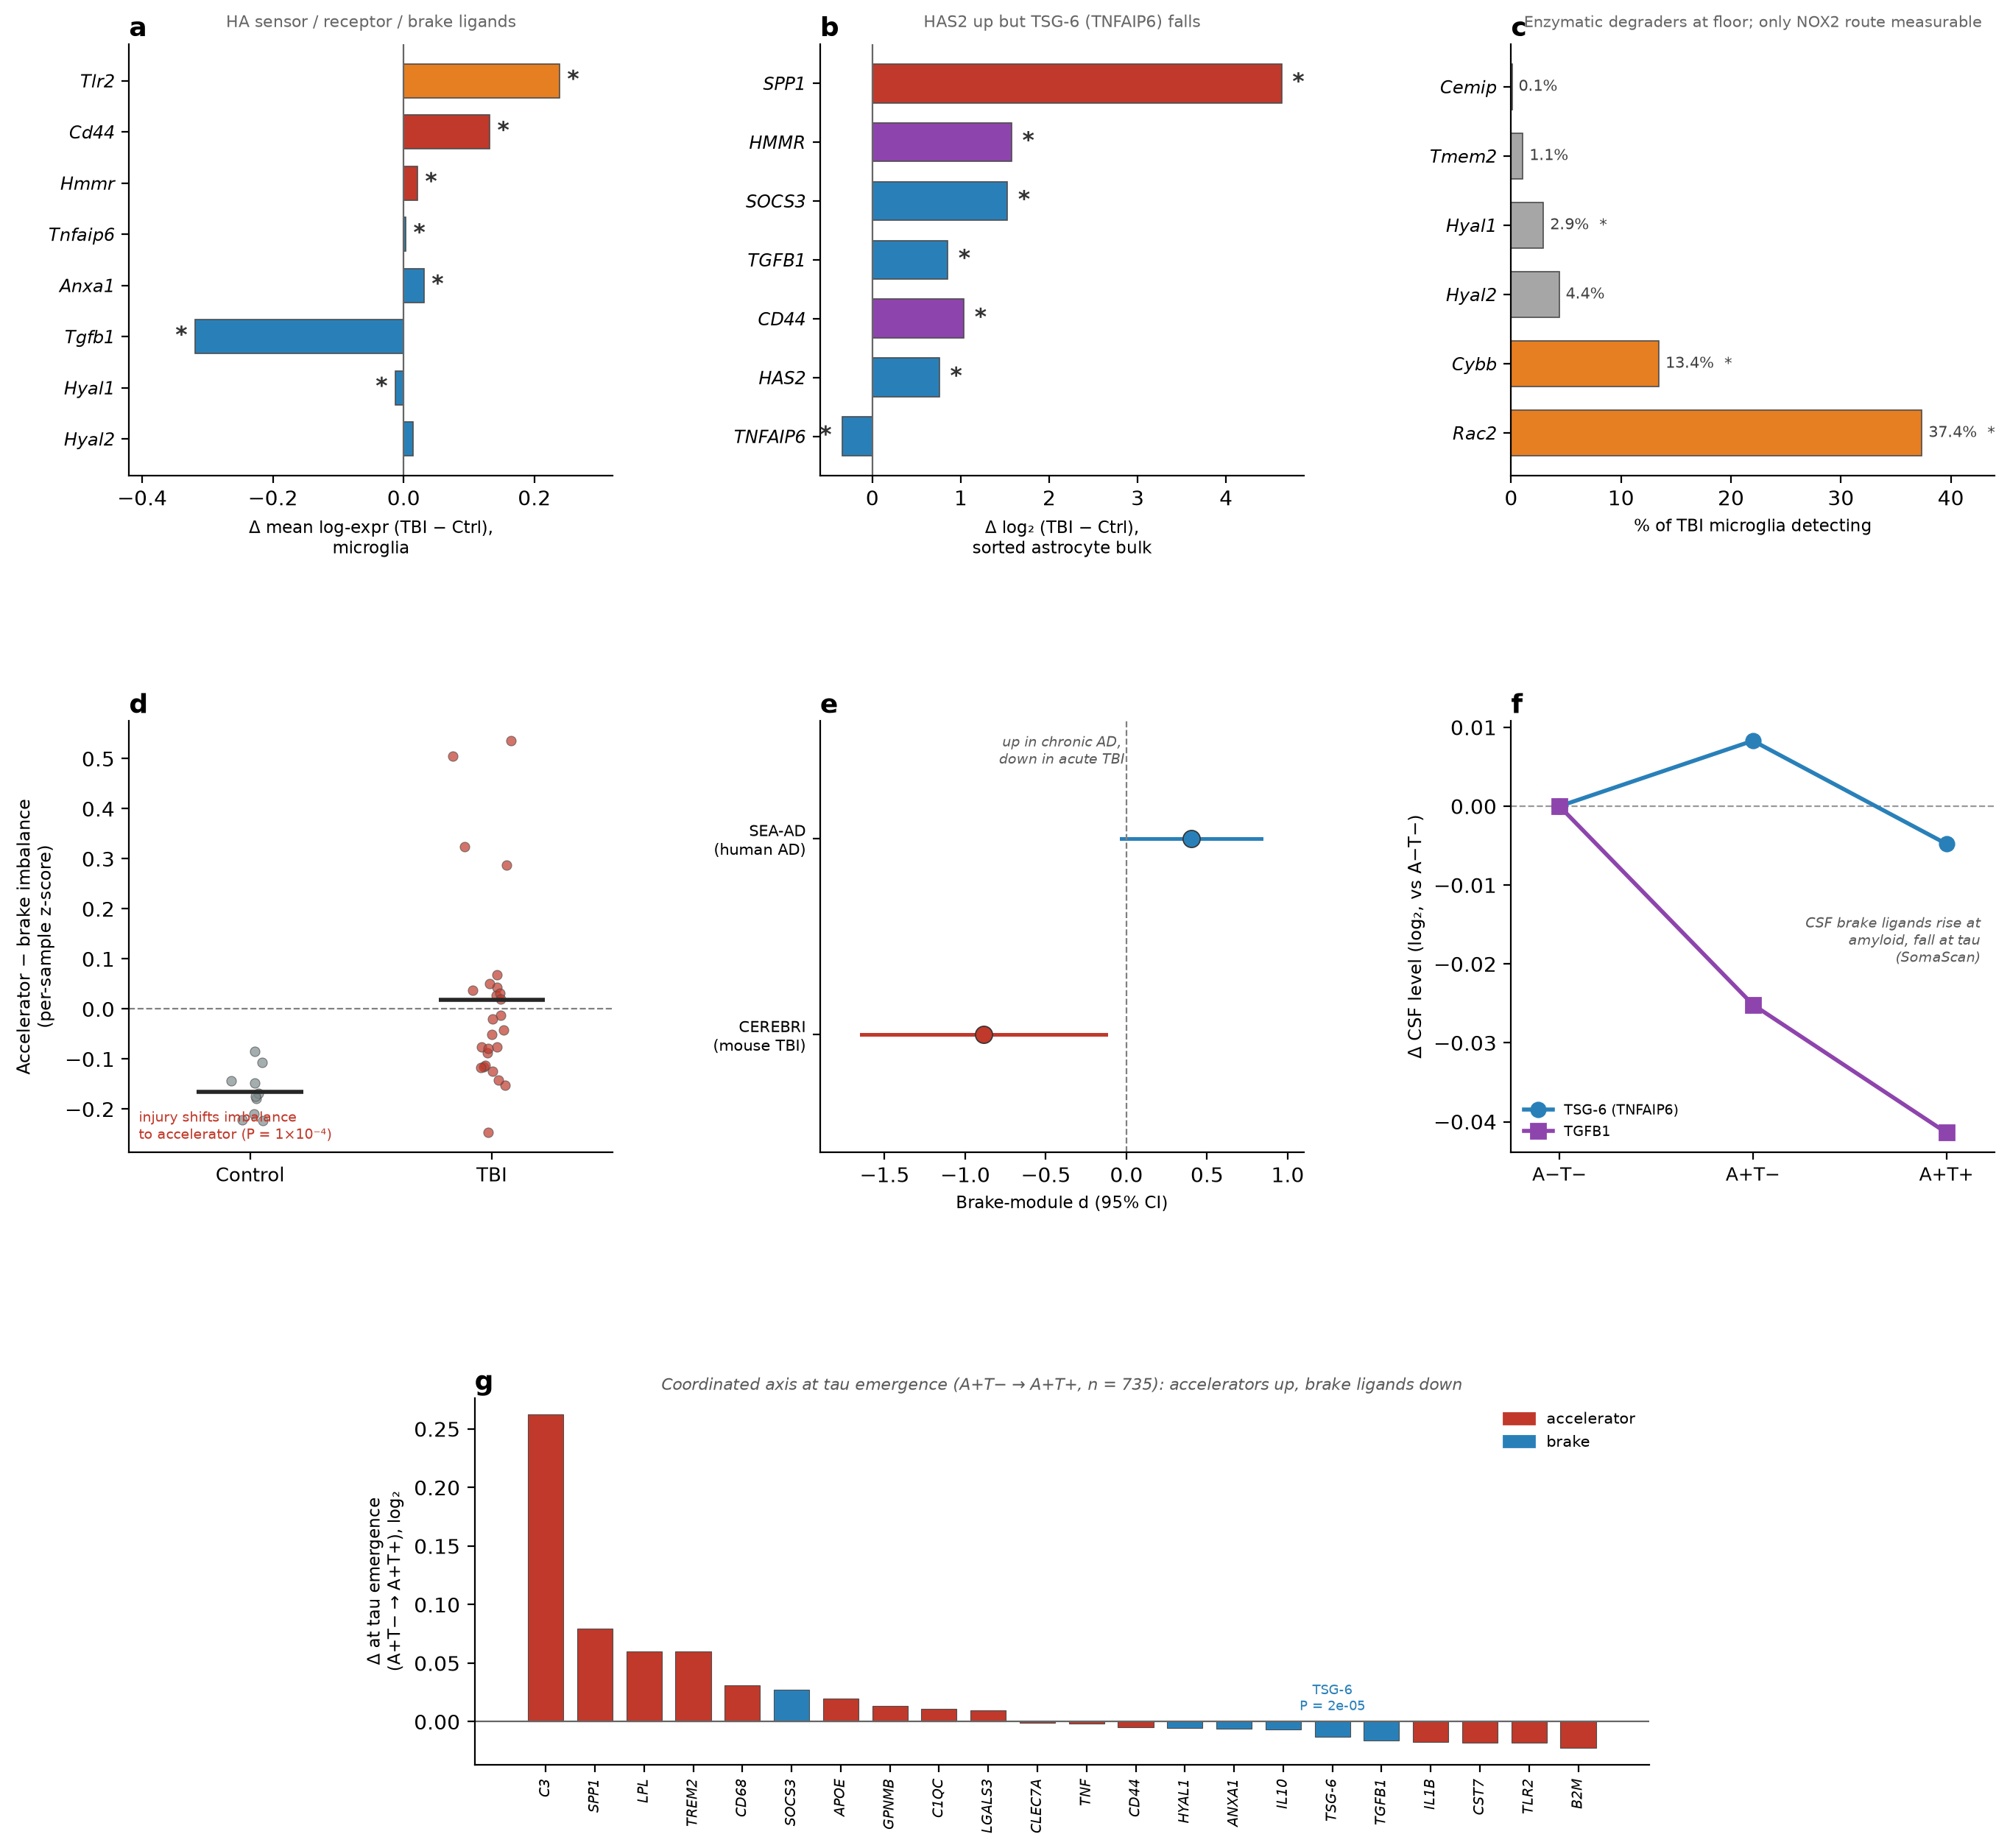
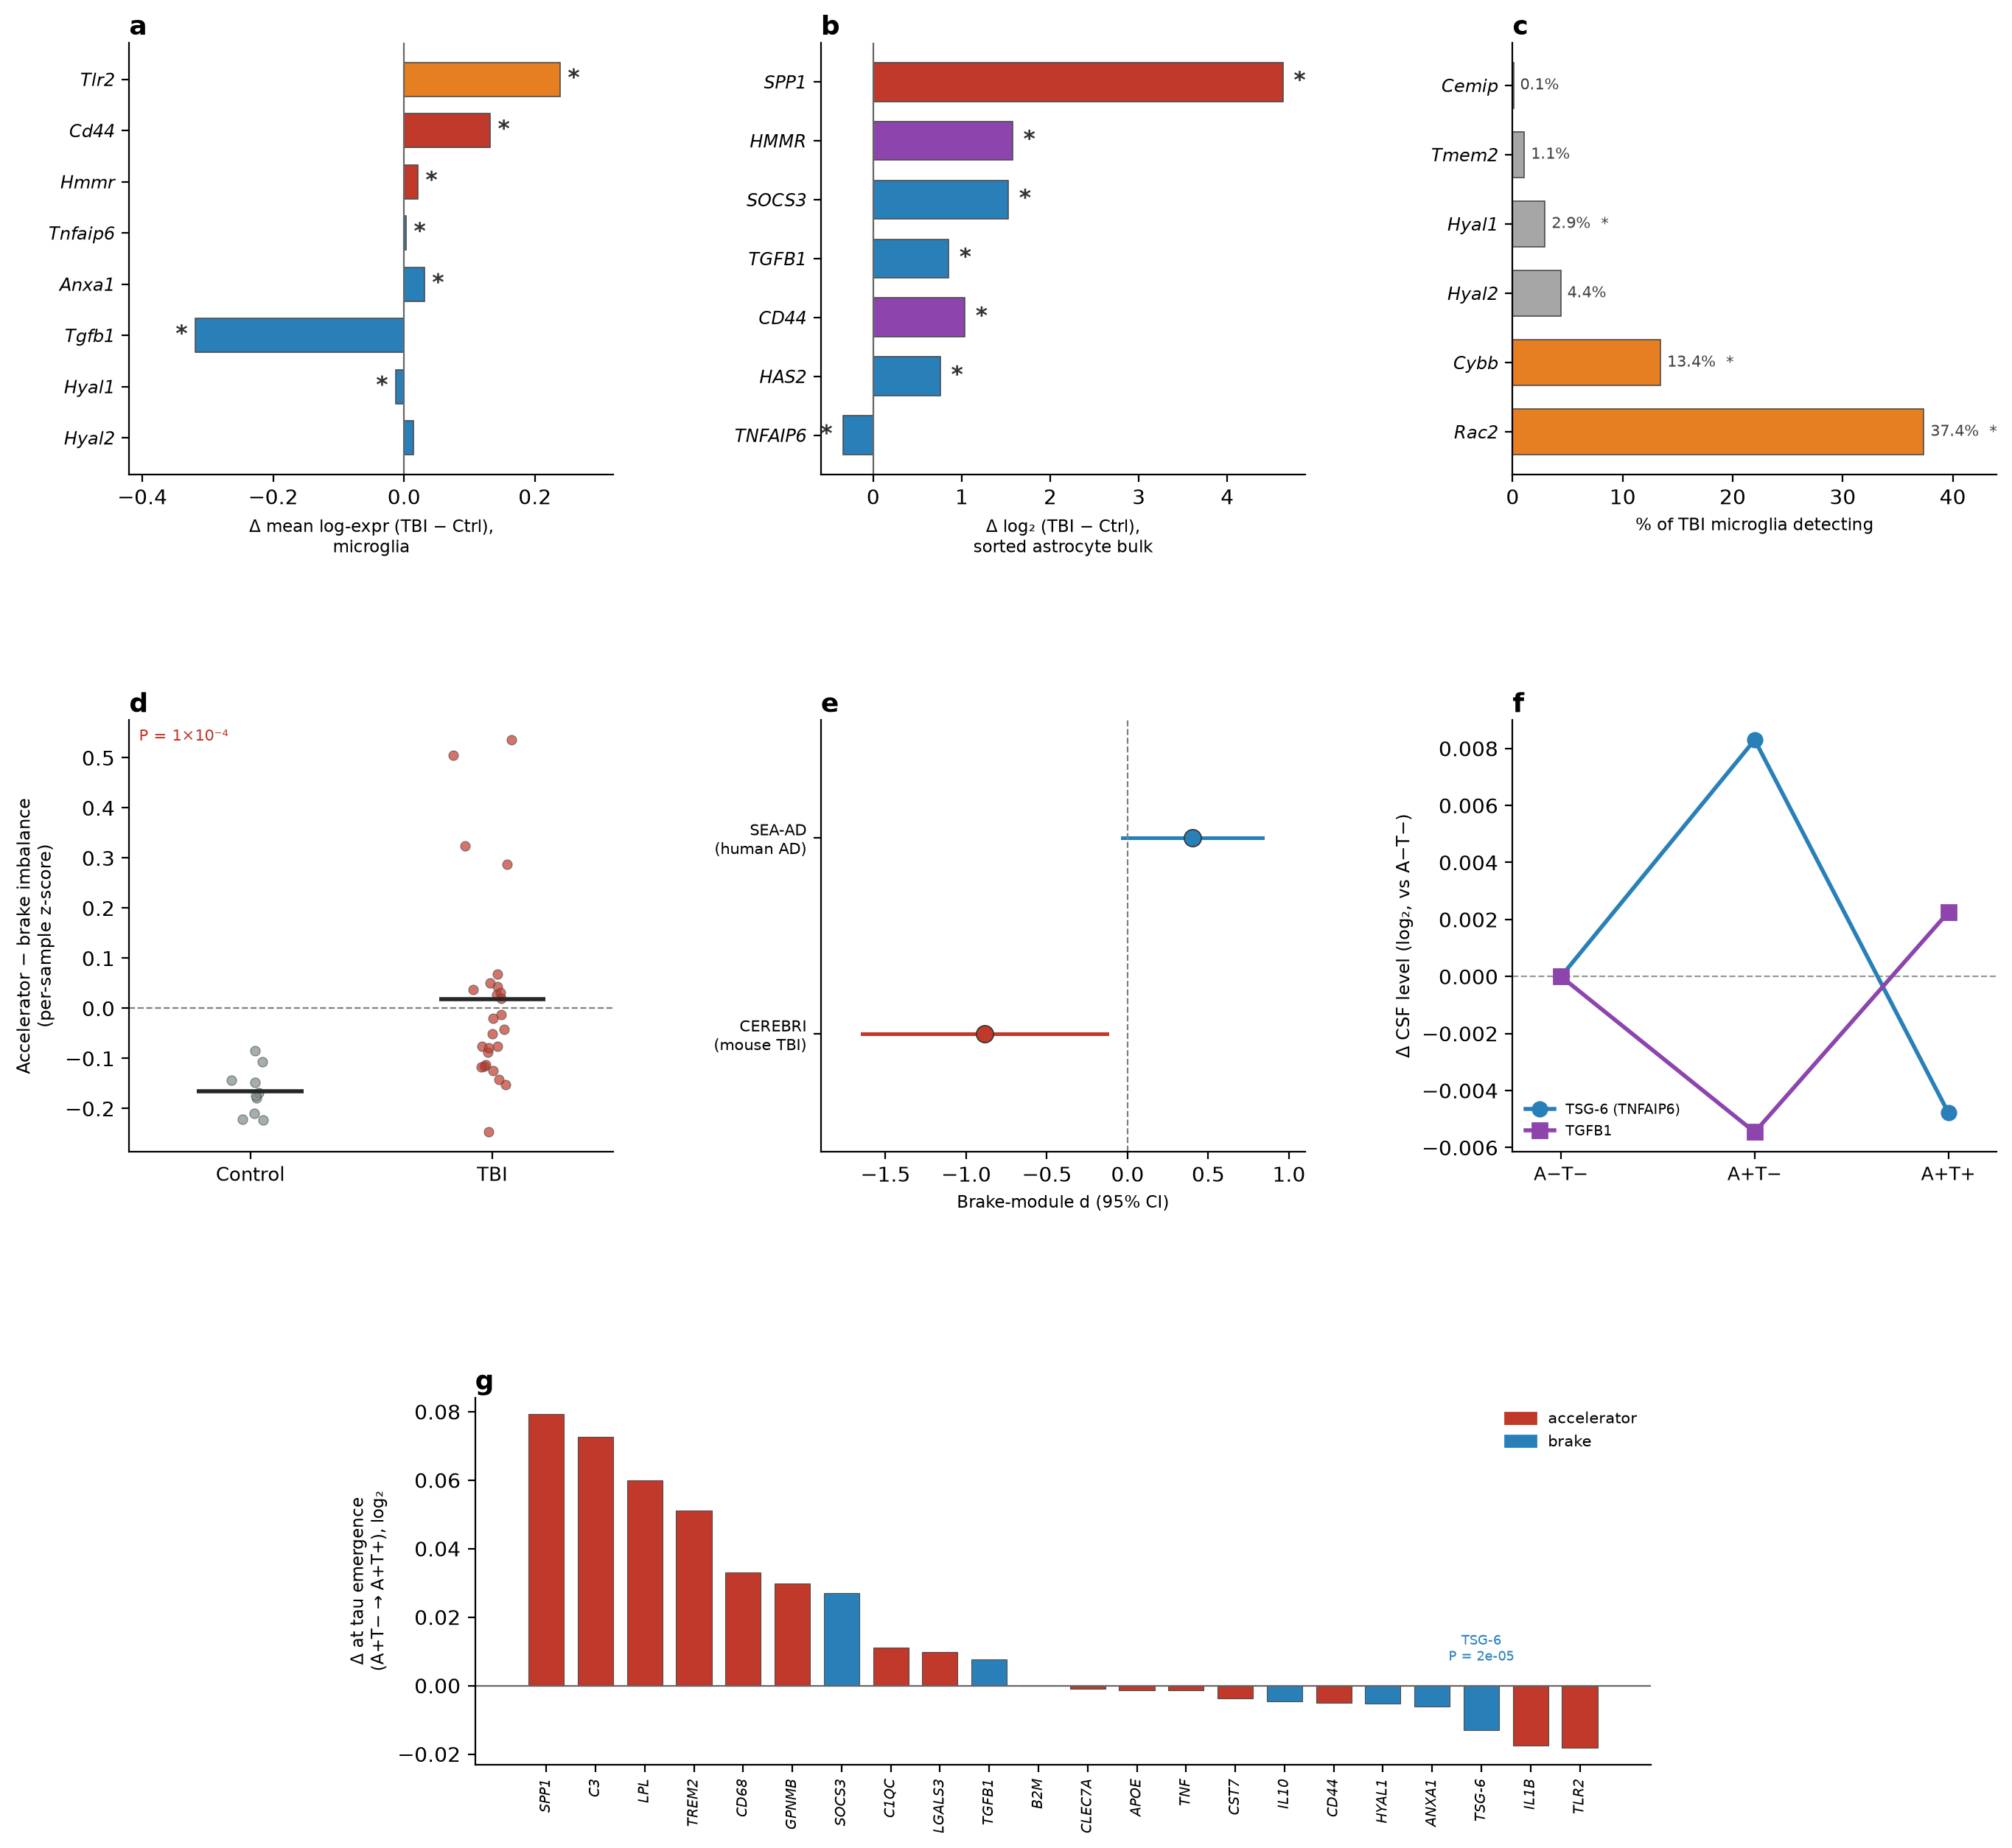
Supp Fig 2: mean-aggregate CSF aptamers, remove subpanel titles, TSG-6 as robust brake
Audit fix: the CSF axis (Ali 2025 SomaScan) previously collapsed multi-aptamer
genes by minimum-P (winner's-curse), inflating multi-aptamer effect sizes
(e.g. C3 0.26 -> true mean 0.073). Now aggregates by MEAN estimate across all
aptamers per protein; FDR recomputed Benjamini-Hochberg per contrast;
n_aptamers recorded. Mean aggregation reveals TGFB1's aptamers are
directionally inconsistent, so the caption now treats TSG-6 (single clean
aptamer) as the robust brake read-out rather than claiming TGFB1 falls.

Figure: removed all descriptive subpanel titles (house rule — only A-G letters,
axis labels, in-figure P-values and legends; interpretation lives in the text
legend). Panel d P-value to upper-left; panel g reads corrected C3 magnitude.

DATA_PROVENANCE + score script document the mean-aggregation method.

diff --git a/figures/build_supplementary_figure2.py b/figures/build_supplementary_figure2.py
@@ -68,8 +68,6 @@ def main():
     ax.set_yticklabels(sel["gene"], fontsize=8.5, fontstyle="italic")
     ax.set_xlabel("\u0394 mean log-expr (TBI \u2212 Ctrl),\nmicroglia", fontsize=8.3)
     ax.set_xlim(-0.42, 0.32)
-    ax.text(0.5, 1.04, "HA sensor / receptor / brake ligands",
-            transform=ax.transAxes, ha="center", fontsize=8, color="0.4")
     stamp(ax, "a")
 
     # b: sorted-astrocyte bulk
@@ -89,8 +87,6 @@ def main():
     ax.set_yticks(y)
     ax.set_yticklabels(ab["gene"], fontsize=8.5, fontstyle="italic")
     ax.set_xlabel("\u0394 log\u2082 (TBI \u2212 Ctrl),\nsorted astrocyte bulk", fontsize=8.3)
-    ax.text(0.5, 1.04, "HAS2 up but TSG-6 (TNFAIP6) falls",
-            transform=ax.transAxes, ha="center", fontsize=8, color="0.4")
     stamp(ax, "b")
 
     # c: four fragmentation routes
@@ -108,8 +104,6 @@ def main():
     ax.set_yticklabels(dg["gene"], fontsize=8.5, fontstyle="italic")
     ax.set_xlabel("% of TBI microglia detecting", fontsize=8.3)
     ax.set_xlim(0, 44)
-    ax.text(0.5, 1.04, "Enzymatic degraders at floor; only NOX2 route measurable",
-            transform=ax.transAxes, ha="center", fontsize=7.4, color="0.4")
     stamp(ax, "c")
 
     # d: accelerator-brake imbalance
@@ -125,8 +119,8 @@ def main():
     ax.set_xticklabels(["Control", "TBI"], fontsize=9.5)
     ax.set_ylabel("Accelerator \u2212 brake imbalance\n(per-sample z-score)", fontsize=8.5)
     ax.set_xlim(-0.5, 1.5)
-    ax.text(0.02, 0.02, "injury shifts imbalance\nto accelerator (P = 1\u00d710\u207b\u2074)",
-            transform=ax.transAxes, ha="left", va="bottom", fontsize=7, color=ACC)
+    ax.text(0.02, 0.98, "P = 1\u00d710\u207b\u2074", transform=ax.transAxes,
+            ha="left", va="top", fontsize=7.5, color=ACC)
     stamp(ax, "d")
 
     # e: reproducibility forest
@@ -144,8 +138,6 @@ def main():
     ax.set_xlabel("Brake-module d (95% CI)", fontsize=8.3)
     ax.set_ylim(-0.6, 1.6)
     ax.set_xlim(-1.9, 1.1)
-    ax.text(0.5, 0.97, "up in chronic AD,\ndown in acute TBI",
-            transform=ax.transAxes, ha="center", va="top", fontsize=7, color="0.35", style="italic")
     stamp(ax, "e")
 
     # f: human CSF brake-ligand trajectory across the ATN continuum (SomaScan)
@@ -165,8 +157,6 @@ def main():
     ax.set_ylabel("\u0394 CSF level (log\u2082, vs A\u2212T\u2212)", fontsize=8.5)
     ax.set_xlim(-0.25, 2.25)
     ax.legend(fontsize=7.0, loc="lower left", frameon=False)
-    ax.text(0.97, 0.55, "CSF brake ligands rise at\namyloid, fall at tau\n(SomaScan)",
-            transform=ax.transAxes, ha="right", va="top", fontsize=7, color="0.35", style="italic")
     stamp(ax, "f")
 
     # g: full axis at tau emergence (A+T- -> A+T+), accelerator up / brake down — own row
@@ -190,8 +180,6 @@ def main():
     from matplotlib.patches import Patch
     ax.legend(handles=[Patch(color=ACC, label="accelerator"), Patch(color=BRK, label="brake")],
               fontsize=7.5, loc="upper right", frameon=False)
-    ax.set_title("Coordinated axis at tau emergence (A+T\u2212 \u2192 A+T+, n = 735): accelerators up, brake ligands down",
-                 fontsize=8, color="0.35", style="italic", pad=6)
     stamp(ax, "g")
 
     fig.savefig(OUT, dpi=200, bbox_inches="tight")

diff --git a/code/score_csf_tau_emergence.py b/code/score_csf_tau_emergence.py
@@ -10,8 +10,10 @@ Sources (download the supplementary tables from the publishers):
     mmc2.xlsx, sheet 'S1_Summary_Statistics' — multi-header per-contrast summary stats with
     A-T-/A+T-/A+T+ ATN staging. Columns used (Discovery block): Symbol; amyloid onset
     (A-T- vs A+T-) estimate/P/FDR; tau emergence (A+T- vs A+T+) estimate/P/FDR; full AD
-    (A-T- vs A+T+) estimate/P/FDR. SomaScan has multiple aptamers/protein — collapse to the
-    minimum-P aptamer per gene symbol.
+    (A-T- vs A+T+) estimate/P/FDR. SomaScan has multiple aptamers/protein — the per-protein
+    estimate is the MEAN across all aptamers (a stated aggregate, not a min-P winner's-curse
+    selection); the reported P is the aptamer nearest that mean and FDR is Benjamini-Hochberg
+    across the axis genes within each contrast. n_aptamers is recorded per gene.
   Guo et al. 2024, Nat. Hum. Behav. (PMID 38987357) — PPMI CSF SomaScan, MOESM3_ESM.xlsx
     sheet ST4 (per-group protein differences across the ATN continuum); corroborating only.
 

diff --git a/DATA_PROVENANCE.md b/DATA_PROVENANCE.md
@@ -148,7 +148,10 @@ brake trajectory across ATN stages (Supplementary Fig. 2f,g):
 - **Ali et al. 2025** (*Neuron*; PMID 40088886; DOI 10.1016/j.neuron.2025.02.014), multi-cohort
   CSF SomaScan. Supplementary table `mmc2.xlsx`, sheet S1 (per-contrast summary statistics with
   A−T−/A+T−/A+T+ ATN staging). Used the amyloid-onset (A−T− vs A+T−), tau-emergence
-  (A+T− vs A+T+) and full-AD contrasts (Discovery estimates) for the axis genes. NOTE: a
+  (A+T− vs A+T+) and full-AD contrasts (Discovery estimates) for the axis genes. Proteins with
+  multiple SomaScan aptamers are aggregated by the MEAN estimate across aptamers (a stated
+  aggregate, not a most-significant-aptamer selection); FDR is recomputed Benjamini-Hochberg
+  across the axis genes within each contrast. NOTE: a
   separate 2026 Ali/Cruchaga paper (PMID 41916283, the AD/DLB/FTD/PD differential-abundance
   analysis) is a *different* deposit and is not the ATN-staged source used here.
 - **Guo et al. 2024** (*Nat. Hum. Behav.* **8**, 2047–2066; PMID 38987357), PPMI CSF SomaScan.

diff --git a/SUBMISSION.md b/SUBMISSION.md
@@ -171,7 +171,7 @@ Four steps establish where common-variant Alzheimer's-disease risk acts on the m
 
 ![Supplementary Figure 2](figures/supplementary_figure2_brake.png)
 
-The hyaluronan-based resolution brake and the two honest limitations on measuring it. **a**, In injured-microglia single-nucleus data (CEREBRI, per-sample test), the low-molecular-weight-hyaluronan sensor *Tlr2* and the receptor *Cd44* rise while the brake ligand *Tgfb1* falls (−0.32, *P* = 0.003); asterisks mark *P* < 0.05. **b**, In sorted-astrocyte bulk RNA-seq, hyaluronan synthase *HAS2* rises but the brake ligand TSG-6 (*TNFAIP6*) falls (−0.34, *P* = 0.03) — synthesis without stabilization. **c**, Of four hyaluronan-fragmenting routes, the three enzymatic degraders (*Hyal1/2*, *Cemip*, *Tmem2*) sit at the single-nucleus detection floor (0.1–4.4% of microglia); only the NADPH-oxidase oxidative-burst route (*Cybb*, *Rac2*) is both detectable and induced. **d**, The accelerator-minus-brake imbalance shifts toward the accelerator under injury (Mann–Whitney *P* = 1×10⁻⁴). **e**, The brake module does not clear the pre-specified ≥3-dataset reproducibility bar — positive in chronic human AD (*d* = +0.40) but negative in acute mouse injury (*d* = −0.89), a dataset-dependence reported rather than averaged away. **f**, The brake is legible in human cerebrospinal fluid, where affinity proteomics (SomaScan) reaches the TSG-6 and TGFB1 concentrations that mass spectrometry and single-nucleus RNA cannot. Tracked across the amyloid–tau (ATN) continuum, TSG-6 rises as amyloid accumulates (A−T− → A+T−) but then falls as tau emerges (A+T− → A+T+), a non-monotonic trajectory in which the brake mounts against amyloid and then fails at the tau transition; TGFB1 falls throughout. **g**, The full axis at the tau-emergence transition (A+T− → A+T+, 735 participants; Ali et al. 2025<sup>18</sup> and Guo et al. 2024<sup>19</sup>): accelerator proteins rise coordinately (*C3*, *SPP1*, *LPL*, *TREM2*, *CD68*) while the brake ligands TSG-6 and TGFB1 fall (TSG-6 *P* = 2×10⁻⁵). This places the resolution deficit specifically at the emergence of tau rather than at amyloid onset — the same accelerator-up/brake-down imbalance the mouse and spatial data install acutely under injury, reaching its inflection in sporadic AD at the tau transition. Two brake genes are exceptions worth noting: *SOCS3* rises here, so the fall is a property of the TSG-6/TGFB1 ligand arm rather than of every brake gene.
+The hyaluronan-based resolution brake and the two honest limitations on measuring it. **a**, In injured-microglia single-nucleus data (CEREBRI, per-sample test), the low-molecular-weight-hyaluronan sensor *Tlr2* and the receptor *Cd44* rise while the brake ligand *Tgfb1* falls (−0.32, *P* = 0.003); asterisks mark *P* < 0.05. **b**, In sorted-astrocyte bulk RNA-seq, hyaluronan synthase *HAS2* rises but the brake ligand TSG-6 (*TNFAIP6*) falls (−0.34, *P* = 0.03) — synthesis without stabilization. **c**, Of four hyaluronan-fragmenting routes, the three enzymatic degraders (*Hyal1/2*, *Cemip*, *Tmem2*) sit at the single-nucleus detection floor (0.1–4.4% of microglia); only the NADPH-oxidase oxidative-burst route (*Cybb*, *Rac2*) is both detectable and induced. **d**, The accelerator-minus-brake imbalance shifts toward the accelerator under injury (Mann–Whitney *P* = 1×10⁻⁴). **e**, The brake module does not clear the pre-specified ≥3-dataset reproducibility bar — positive in chronic human AD (*d* = +0.40) but negative in acute mouse injury (*d* = −0.89), a dataset-dependence reported rather than averaged away. **f**, The brake is legible in human cerebrospinal fluid, where affinity proteomics (SomaScan) reaches the TSG-6 and TGFB1 concentrations that mass spectrometry and single-nucleus RNA cannot. Tracked across the amyloid–tau (ATN) continuum, TSG-6 rises as amyloid accumulates (A−T− → A+T−) but then falls as tau emerges (A+T− → A+T+), a non-monotonic trajectory in which the brake mounts against amyloid and then fails at the tau transition. TGFB1 shows the opposite phase (down at amyloid, partially recovering at tau); its aptamers are less concordant than the single TSG-6 reagent, so we treat TSG-6 as the robust brake read-out. Estimates are means across all SomaScan aptamers per protein. **g**, The full axis at the tau-emergence transition (A+T− → A+T+, 735 participants; Ali et al. 2025<sup>18</sup> and Guo et al. 2024<sup>19</sup>): accelerator proteins rise coordinately (*SPP1*, *C3*, *LPL*, *TREM2*, *CD68*) while the robust brake ligand TSG-6 falls (*P* = 2×10⁻⁵). This places the resolution deficit specifically at the emergence of tau rather than at amyloid onset — the same accelerator-up/brake-down imbalance the mouse and spatial data install acutely under injury, reaching its inflection in sporadic AD at the tau transition. The brake arm is heterogeneous here (*SOCS3* rises rather than falls), so the deficit is carried by the TSG-6 ligand rather than by every brake gene uniformly.
 
 **Supplementary Figure 3 | Regulatory grammar and cross-condition validation.**
 